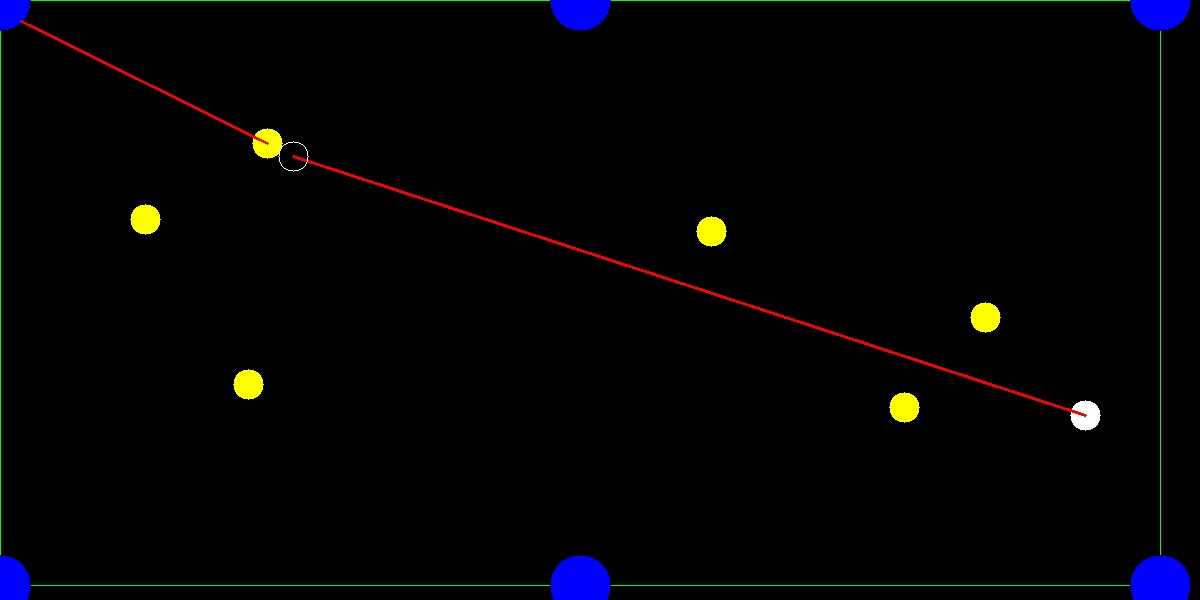
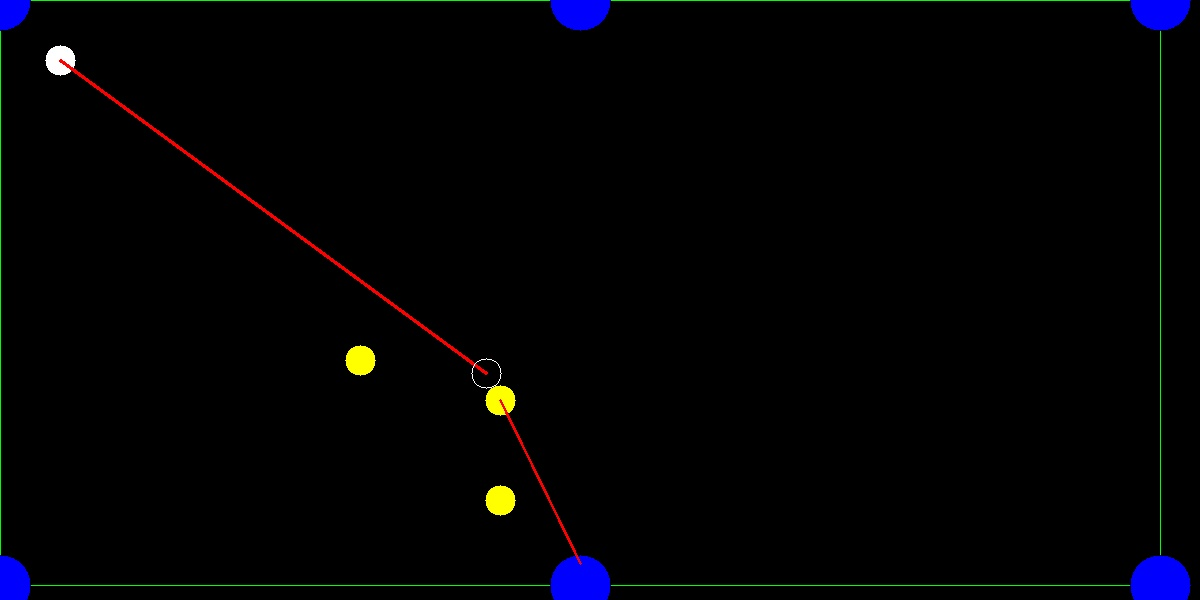
Cleaning Up Test.py

diff --git a/shot_calc_test.py b/shot_calc_test.py
@@ -8,7 +8,9 @@ from array import *
 import cv2 as cv
 import numpy as np
 
-#MACROS FOR ME TO USE
+
+
+################### GLOBAL PARAMETERS ###################
 NUMBER_OF_BALLS = 16    #The total number of balls on the table
 FIRST_BALL = 1          #Solid Ball 1
 DISTANCES = 0           #The Index which gets the distances of each ball to each pocket
@@ -36,7 +38,7 @@ TABLE_Y_HI = 700        #Table bottom right corner y coordinate
 TABLE_Y_LO = 300        #Table top left corner y coordinate
 NAN = np.nan            #Not a number, used for default and non-reachable values
 INF = np.inf            #Infinity, Used for the x coordinates of the balls is the same
-ROOT2 = math.sqrt(2)
+ROOT2 = math.sqrt(2)    #The Square Root of 2
 
 #brief: A list of the various parametrs for the ball
 #int (ball number) -> list
@@ -102,12 +104,12 @@ pocket_for_each_ball = [[NAN,INF],[NAN,INF],[NAN,INF],[NAN,INF],[NAN,INF],
 
 
 #A list of pockets with each element being an x-y coordinate for the pocket
-pockets = [[0,0],[600,0],[1200,0],[1200,600],[600,600],[0,600]]
+pockets = [[0,0],[580,0],[1160,0],[1160,585],[580,585],[0,585]]
 center_edges = [[NAN,NAN],[NAN,NAN],[NAN,NAN],[NAN,NAN],[NAN,NAN],[NAN,NAN]]
 
 #A list of X and Y coordinates for each ball
-listX = [60,60,-1,-1,-1,-1,-1,-1,-1,-1,-1,-1,-1,-1,-1,-1]
-listY = [550,60,-1,-1,-1,-1,-1,-1,-1,-1,-1,-1,-1,-1,-1,-1]
+listX = [60,360,500,500,-1,-1,-1,-1,-1,-1,-1,-1,-1,-1,-1,-1]
+listY = [60,360,400,500,-1,-1,-1,-1,-1,-1,-1,-1,-1,-1,-1,-1]
 
 
 def calc_center_edges():
@@ -130,6 +132,10 @@ def calc_center_edges():
     p4[1] = pockets[4][1] - (RADIUS_POCKET/ROOT2)
     p5[0] = pockets[5][0] + (RADIUS_POCKET/ROOT2)
     p5[1] = pockets[5][1] - (RADIUS_POCKET/ROOT2)
+
+
+
+################### Collision Check  ###################
 #taken from: https://www.jeffreythompson.org/collision-detection/line-circle.php
 
 # Definition: Checks if the line given bt (x0,y0) and (x1,y1) lies on the circle given by (cx,cy) and radius
@@ -356,7 +362,6 @@ def drawImage():
             #cv.line(img,(listX[target_ball],listY[target_ball]),(pocketX,pocketY),(0,0,255 - (i*20)),2);
     
     chosen_shot = chose_easiest_shot()
-    print("Chosen Shot is {fort}".format(fort = chosen_shot+1))
     if (chosen_shot>=0):
         shot_params = ball_to_shots.get(chosen_shot+1)
         cv.line(img,(listX[CUE_BALL],listY[CUE_BALL]),(shot_params[GHOST_BALL][0],shot_params[GHOST_BALL][1]),RED,2)
